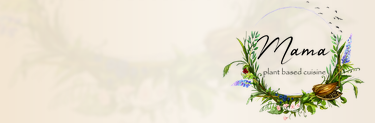
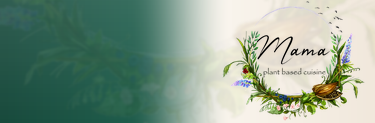
bnnr

diff --git a/src/lib/applePass.js b/src/lib/applePass.js
@@ -6,7 +6,8 @@
 //
 // Visual style: a bright, porcelain-warm VIP counter card. The pass is
 // intentionally simple: brand, discount, cardholder, expiry, and clear
-// counter-use copy.
+// counter-use copy. Discount type is black on cream — iOS Wallet forces
+// primary-field text to white over a strip image, so we skip the strip.
 //
 // Pass type is "storeCard" — Apple's recommended style for loyalty /
 // discount membership cards.
@@ -77,9 +78,11 @@ function extractCertAndKeyFromP12(p12Buffer, password) {
 //
 // Design "Cream & botanical" (Sept 2026):
 //   logo   — the hand-written "Mama" script, cut from the full logo
-//   strip  — cream band with the full wreath at the right; the primary field
-//            ("20%") is drawn by Wallet over the left of this band
-//   icon   — wreath on cream (lock screen / notifications / Google logo)
+//   strip  — forest-green on the left fading to cream, the full wreath at
+//            the right. iOS Wallet FORCES the primary field (label + value)
+//            to white whenever a strip is present — so the left of the band
+//            is deliberately dark, and "Member discount / 20%" sits on green.
+//   icon   — wreath on cream (lock screen / notifications)
 // All generated by scripts/generate-wallet-pass-images.py from
 // public/mamaimg/mamalogo.png — re-run it rather than editing PNGs by hand.
 async function loadPassImages() {
@@ -205,7 +208,8 @@ export async function generateTribePass(card) {
     serialNumber: `tribe-${card.id}`, // deterministic, lets us update later
 
     // Brand cream / deep brown / forest green — same as the web card and
-    // the card email. Wallet applies these globally to every field.
+    // the card email. Wallet applies these to every field EXCEPT the primary
+    // field over the strip, which is always white (handled by the strip art).
     backgroundColor: "rgb(249, 244, 236)",
     foregroundColor: "rgb(44, 24, 16)",
     labelColor: "rgb(31, 92, 75)",
@@ -226,7 +230,7 @@ export async function generateTribePass(card) {
           value: "Tribe",
         },
       ],
-      // Primary sits on the strip image (bottom-left), over the cream band.
+      // Primary sits on the strip (bottom-left) — white text on the green.
       primaryFields: [
         {
           key: "discount",

diff --git a/src/app/tribe-card/components/TribeCardVisual.jsx b/src/app/tribe-card/components/TribeCardVisual.jsx
@@ -72,12 +72,13 @@ export default function TribeCardVisual({ card }) {
           backgroundPosition: "center",
         }}
       >
+        {/* White on the green part of the band — same as Wallet draws it */}
         <div className="absolute left-5 bottom-3.5">
-          <p className="text-[11px] tracking-[0.08em] uppercase text-[#1f5c4b] font-semibold">
+          <p className="text-[11px] tracking-[0.08em] uppercase text-white/90 font-semibold">
             {isActive ? "Member discount" : status}
           </p>
           <p
-            className="leading-none text-[#2c1810] font-light"
+            className="leading-none text-white font-light"
             style={{ fontSize: 54, letterSpacing: "-0.02em" }}
           >
             {isActive ? `${discount_percent}%` : "—"}

diff --git a/scripts/generate-wallet-pass-images.py b/scripts/generate-wallet-pass-images.py
@@ -4,7 +4,7 @@
 Design "Cream & botanical" (Sept 2026). Run from the repo root:
     python3 scripts/generate-wallet-pass-images.py
 Needs Pillow, numpy, scipy. Writes into public/wallet-pass/:
-    strip.png / @2x / @3x   375x123pt cream band, wreath at right (Apple strip, Google hero)
+    strip.png / @2x / @3x   375x123pt green→cream band, wreath at right (Apple strip, Google hero)
     logo.png  / @2x / @3x   the "Mama" script, max 160x50pt, transparent (Apple logo)
     icon.png  / @2x / @3x   wreath on cream, 29pt square (Apple icon)
     google-logo.png         wreath on cream, 512px square (Google programLogo)
@@ -22,23 +22,33 @@ INK = (44, 24, 16)
 src = Image.open(SRC).convert("RGBA")
 logo = src.crop(src.getbbox()); W, H = logo.size
 
+GREEN = (31, 92, 75)
+GREEN_DEEP = (24, 74, 60)
+
+def lerp(a, b, u): return tuple(int(a[k] + (b[k] - a[k]) * u) for k in range(3))
+
 def strip(scale):
+    """Green on the left (Wallet draws the primary field there in white),
+    fading to cream under the wreath on the right."""
     w, h = 375 * scale, 123 * scale
     im = Image.new("RGBA", (w, h)); px = im.load()
-    stops = [(0, (243, 230, 211)), (0.55, CREAM), (1, (241, 232, 220))]
     for x in range(w):
         t = x / (w - 1)
-        for i in range(len(stops) - 1):
-            a, ca = stops[i]; b, cb = stops[i + 1]
-            if a <= t <= b:
-                u = (t - a) / (b - a); c = tuple(int(ca[k] + (cb[k] - ca[k]) * u) for k in range(3)); break
+        if t < 0.34: c = lerp(GREEN_DEEP, GREEN, t / 0.34)
+        elif t < 0.62:
+            u = (t - 0.34) / 0.28; u = u * u * (3 - 2 * u)
+            c = lerp(GREEN, CREAM, u)
+        else: c = lerp(CREAM, (241, 232, 220), (t - 0.62) / 0.38)
         for y in range(h): px[x, y] = c + (255,)
-    # faint blurred leaves bottom-left for a little texture
-    big = logo.crop((0, int(H * 0.55), W, H)); bh = int(h * 1.3)
-    big = big.resize((int(big.width * bh / big.height), bh), Image.LANCZOS).filter(ImageFilter.GaussianBlur(1.5 * scale))
-    big.putalpha(big.split()[3].point(lambda v: int(v * 0.07)))
-    im.alpha_composite(big, (int(-big.width * 0.15), int(-bh * 0.15)))
-    # the full wreath, right
+    glow = Image.new("RGBA", (w, h), (0, 0, 0, 0)); gp = glow.load()
+    for y in range(h):
+        a = int(28 * (1 - y / h))
+        for x in range(int(w * 0.62)): gp[x, y] = (255, 255, 255, a)
+    im.alpha_composite(glow)
+    big = logo.crop((0, int(H * 0.55), W, H)); bh = int(h * 1.4)
+    big = big.resize((int(big.width * bh / big.height), bh), Image.LANCZOS).filter(ImageFilter.GaussianBlur(1.2 * scale))
+    big.putalpha(big.split()[3].point(lambda v: int(v * 0.10)))
+    im.alpha_composite(big, (int(-big.width * 0.12), int(-bh * 0.2)))
     wh = int(h * 0.98); wr = logo.resize((int(W * wh / H), wh), Image.LANCZOS)
     im.alpha_composite(wr, (w - wr.width - int(10 * scale), int((h - wh) / 2)))
     return im.convert("RGB")
